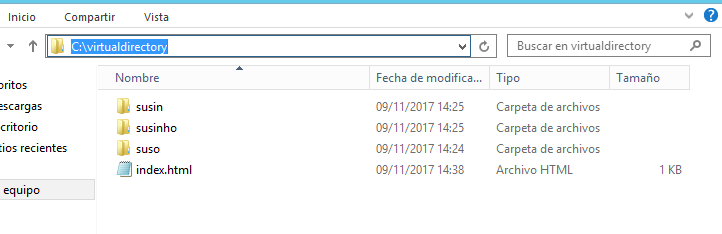
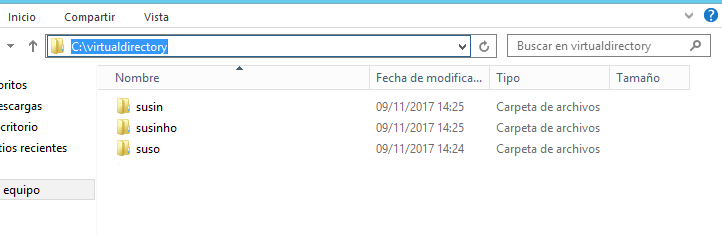
Final Release

diff --git a/trim1/u4/a1-IIS-Windows-2012-Server-III/README.md b/trim1/u4/a1-IIS-Windows-2012-Server-III/README.md
@@ -1,0 +1,63 @@
+# U4-A1 Práctica de IIS Windows 2012 Server III
+
+En la segunda parte pudimos ver como se implementaba nuevos sitios webs en un servidor IIS, esta vez vamos a ver como se implementan `Directorios virtuales` en este.
+
+## 1. Creación del Directorio virtual
+
+Los `directorios virtuales` son carpetas independientes que se pueden vincular a un sitio web en concreto. Para crear estas carpetas nos dirigimos al sitio web en cuestión desde el gestor de `IIS` y seleccionamos `Agregar directorio virtual`.
+
+![Imagen](./img/01.png)
+
+Y dentro de este menú seleccionamos el alias con el que se accederá desde el dominio (uri) y la ruta física del mismo, que será una carpeta que crearemos en nuestro equipo previamente.
+
+![Imagen](./img/02.png)
+
+> Nótese que el directorio es 'hermano' a las rutas de nuestros sitios web, demostrando así su independencia de la web a la que pertenecerá.
+
+![Imagen](./img/03.png)
+
+Hecho esto el directorio ya será accesible desde `http:/miempresa21.edu/virtualdirectory`, aunque de momento no esta configurado.
+
+## 2. Preparar el contenido de `C:\virtualdirectory`
+
+Ahora vamos a diseñar nuestra web, tiene que contener 3 directorios, en mi caso serán:
+
+- `suso`.
+
+- `susin`.
+
+- `susinho`.
+
+![Imagen](./img/04.png)
+
+Dentro de cada uno de estos crearemos un `html` propio.
+
+![Imagen](./img/05.png)
+
+> Podemos ver que en el directorio principal no he puesto un `index`, esto lo he hecho con el propósito de probar el `autoindex` de `IIS` y que el contenido de la carpeta se muestre como una especie de `FTP`.
+>
+>- Para hacer esto seleccionando nuestro directorio virtual habilitamos `Examen de directorios`.
+>
+>   ![Imagen](./img/06.png)
+>
+>   ![Imagen](./img/07.png)
+
+## 3. Comprobar el funcionamiento del directorio
+
+Para finalizar vamos a probar que podemos visualizar nuestro directorio desde el servidor así como del cliente.
+
+- Servidor:
+
+  ![Imagen](./img/08.png)
+
+  > Aquí también podemos ver el funcionamiento del examen de directorios.
+
+  ![Imagen](./img/09.png)
+
+- Cliente:
+
+  ![Imagen](./img/10.png)
+
+  ![Imagen](./img/11.png)
+
+Comprobado el funcionamiento del directorio podemos dar por finalizada esta actividad.
